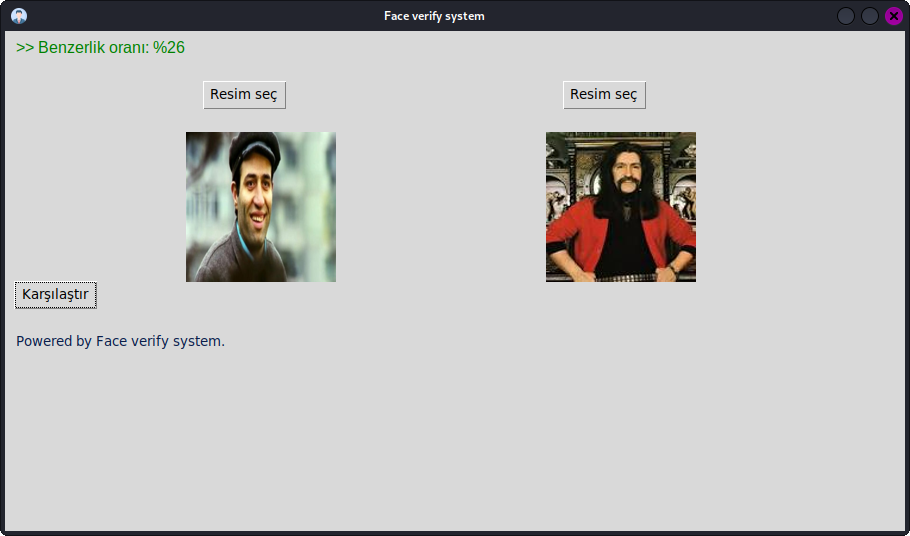
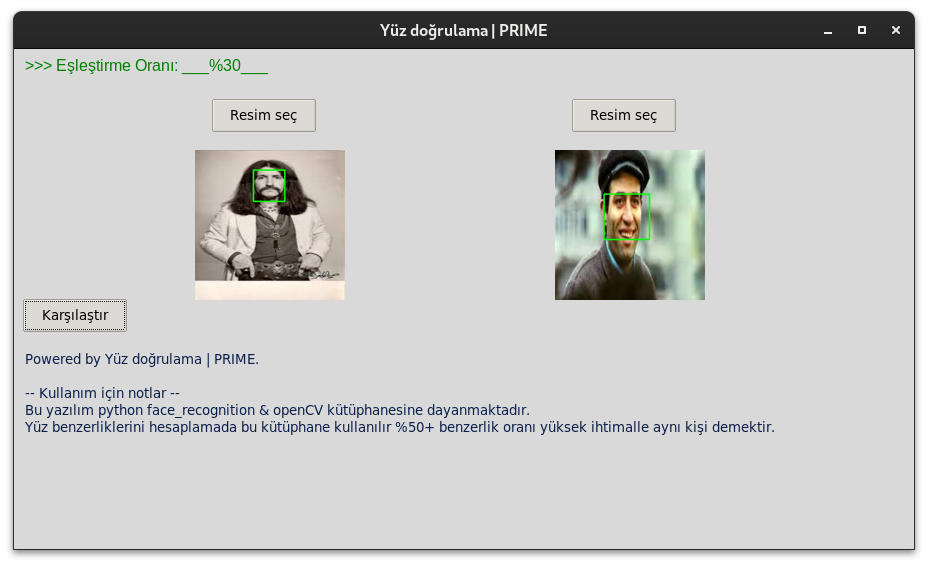
örnek resimler ve reame güncellendi

Changed region(s): [[0.0, 0.0, 1.0, 1.0], [0.5846, 0.1493, 0.7692, 0.5373]]

diff --git a/README.md b/README.md
@@ -1,6 +1,12 @@
 # Yüz Doğrulama
 <p>OSINT işlemlerinde kişileri doğrulamak & tespit edebilmek için tasalarnan bir python projesidir. Yüzleri karşılaştırmak için önceden eğitilmiş modeller kullanan face_recognition kütüphanesi, daha doğru eşleşmeler için resimleri yenien boyutlandırmada openCV ve kullanıcı dostu bir arayüz için Tkinter kullanılmaktadır.</p>
 
+<br>
+<br>
+<h3> <B>
+UYARI: Yanlızca linux üzerinde test edilmiştir diğer sistemler içinde uyumludur ama 
+ilgili python paketlerinin kurulumu vs uyumlu olmayabilir özellikle windows üzerinde dlib kurulumu.
+</B></h3>
 </br>
 
 
@@ -18,13 +24,24 @@
 </br>
 
 ### Gereksinimlerin kurulumu:
-```bash
-python3 -m pip install paket_adı # Linux & MacOS
-```
-```bash
-pip install paket_adı # Windows
-```
 
+```bash
+# Sistem çapında gerekli paketlerin kurulumu
+sudo apt-get install zenity git python3 
+
+# Python kütüpahanelerinin kurulması
+python3 -m pip install face_recognition cv2 tkinter subprocess pathlib
+
+# Reponun sisteme klonlanması
+git clone https://github.com/TheKoba-dev/FaceVerification.git
+
+# Kod klasörüne gidiş
+cd FaceVerification
+
+# Programın çalıştırılması
+python3 main.py
+
+```
 
 # Kullanıcı arayüzü:
 
@@ -72,3 +89,14 @@ FULL_PATH_OF_TEMP = str(os.getcwd())+str(os.sep)+TEMP_PATH
 <B><h3><a href="https://t.me/BayTapsan">Telegram Adresim.</a></h3></B>
 
 <B><h3><a href="https://t.me/safaksiz_egitim">Telegram Eğitim kanalımız.</a></h3></B>
+
+
+
+
+
+
+
+
+
+<!-- Prime osint project için yazılmıştır. [2020 - ~]. -->
+<!-- Destek olan tüm hanedan üyelerine selam olsun -->
